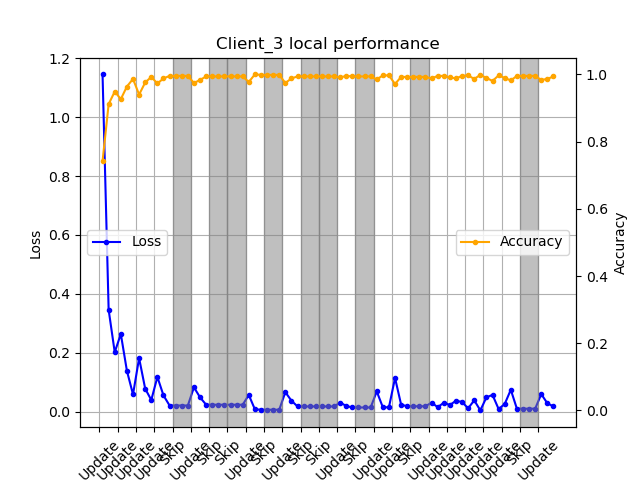
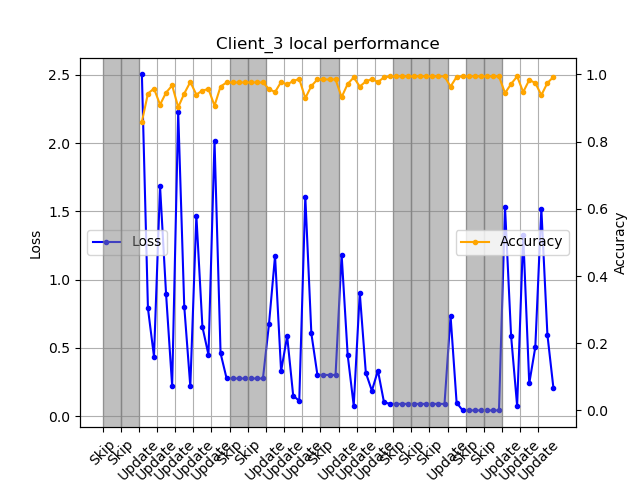
Fixed TFQ

diff --git a/main.py b/main.py
@@ -12,9 +12,9 @@ from threading import Lock
 
 def main():
 
-    fed_config = {"C": 1, # percentage of clients to pick (floored)
+    fed_config = {"C": 0.8, # percentage of clients to pick (floored)
                   "K": 3, # clients overall
-                  "R": 5, # rounds of training TODO:CHANGE TO 25
+                  "R": 25, # rounds of training TODO:CHANGE TO 25
                   "E": 3,
                   "B": 64,
                   "optimizer": torch.optim.Adam,

diff --git a/results/evaluation_plots.py b/results/evaluation_plots.py
@@ -180,4 +180,4 @@ def table1():
     df[">95"] = x95
     return df
 
-plot3()
+plot1()
